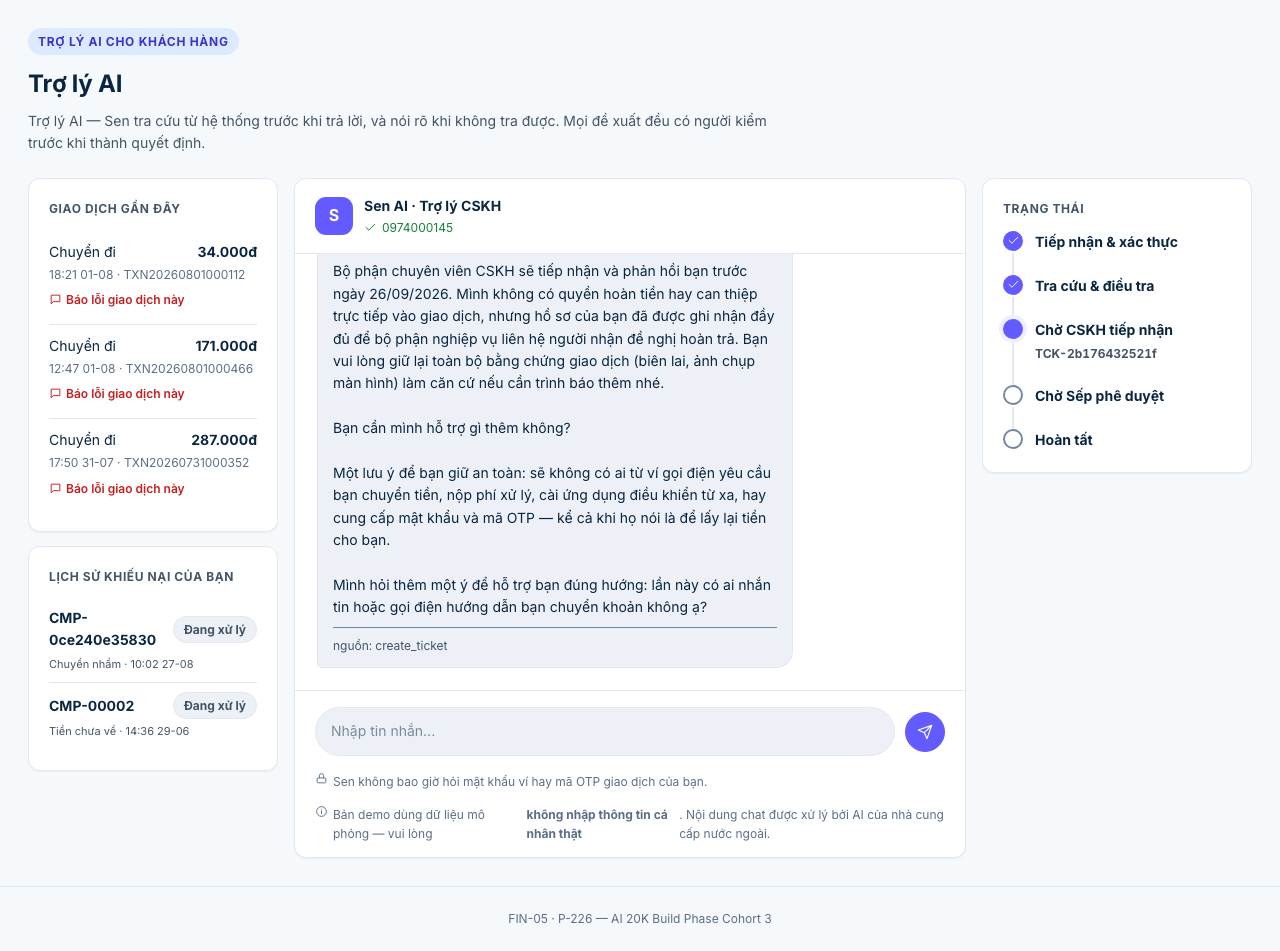
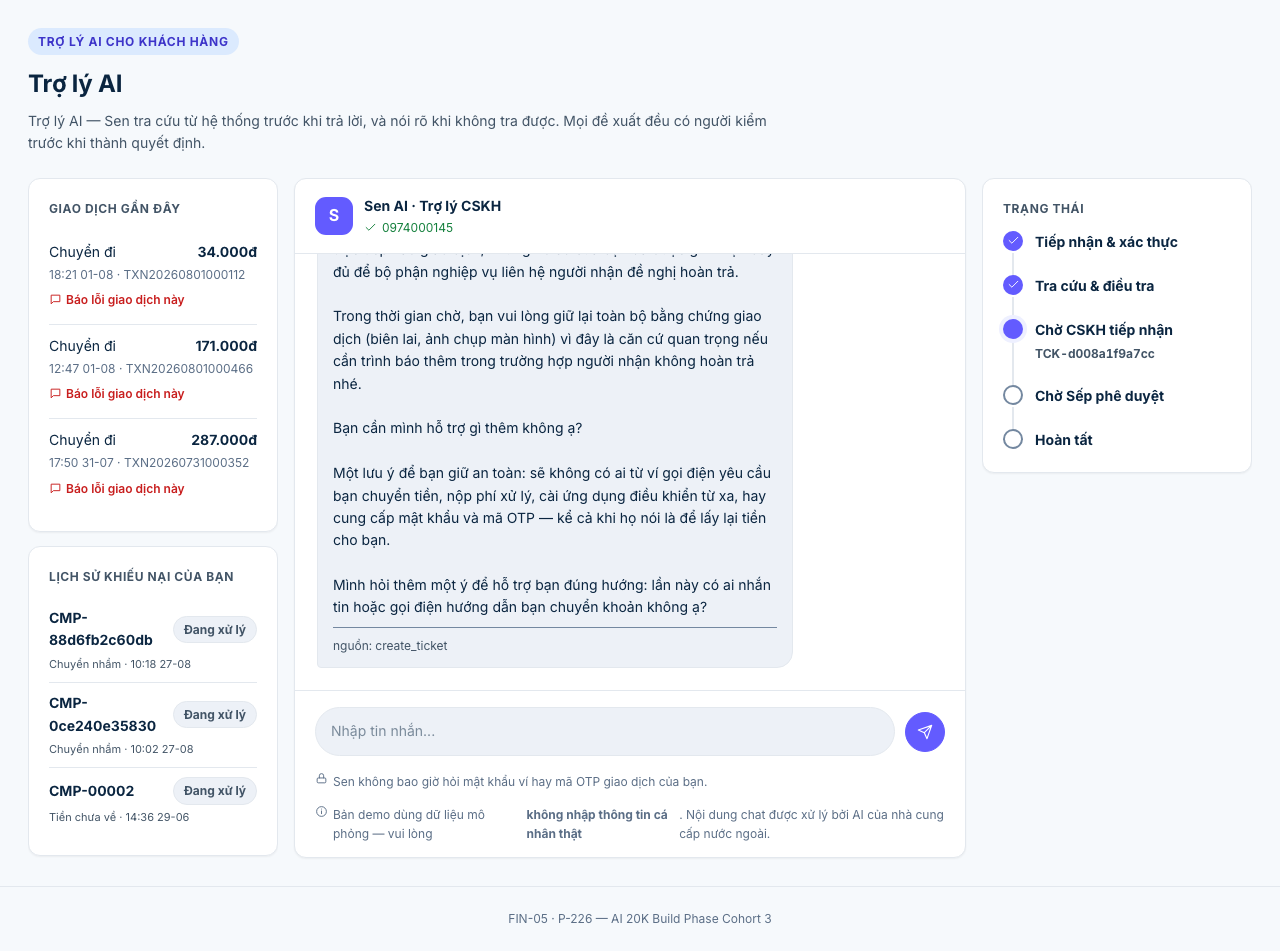
fix(landing): thay ảnh khối 04 — ẩn dòng SLA 30 ngày, lộ đoạn cảnh báo lừa đảo
Marketing (p-226-17) xem ảnh đầu (ticket TCK-2b176432521f) bằng mắt, bắt
được: đoạn chat đang hiển thị lộ "Bộ phận CSKH sẽ phản hồi trước ngày
26/09/2026" (SLA 30 ngày cho scope=unknown — vấn đề nghiệp vụ đã biết, đang
chờ PO quyết, KHÔNG phải lỗi ảnh hay lỗi chụp). Câu đó nằm NGAY CẠNH câu
hero "điều tra trong vài phút" — tự đặt phản chứng cạnh luận điểm chính.

Không sửa bằng chứng — CHỌN CHỖ CHO XEM: khung chat vốn cuộn được, và đoạn
đáng xem hơn đã có sẵn trong CÙNG tin nhắn đó: agent TỰ ĐƯA cảnh báo chống
lừa đảo (không ai hỏi), nêu cả "cài ứng dụng điều khiển từ xa" — một vector
lừa đảo nằm ngoài danh sách ba điều Marketing từng viết. Câu hỏi cuối chính
là tín hiệu FS-13 đang chạy thật.

Chụp lại ticket MỚI (cùng luồng thật: OTP → báo lỗi giao dịch → agent tạo
ticket), cuộn .chat-thread xuống đáy để dòng SLA (đầu tin nhắn) ra khỏi
khung nhìn, đoạn cảnh báo (cuối tin nhắn) hiện rõ. Giữ nguyên mọi xử lý khác
(trọn rail + chat + cột trạng thái, chỉ cắt dải header). Đổi caption khớp
nội dung mới.

tsc --noEmit + vitest 42/42 sạch, xác nhận bằng screenshot thật trên ngăn
fin05-qa-stripe rebuild.

diff --git a/frontend/src/app/page.tsx b/frontend/src/app/page.tsx
@@ -134,24 +134,33 @@ export default async function Home() {
             T121" (mã dự án CŨ) và lộ huy hiệu DEVELOPMENT/tên người dùng —
             KHÔNG dùng được nguyên trạng. Chụp lại THẬT trên code hiện tại
             (đăng nhập khách thật 0974000145, đi hết luồng OTP -> báo lỗi
-            giao dịch -> agent thật tạo ticket TCK-2b176432521f) — không phải
-            mock. TRỌN phần nội dung (rail + khung chat + cột trạng thái),
-            CHỈ cắt dải header phía trên (env badge/tên người dùng) — không
-            crop cột trạng thái, đúng yêu cầu "ảnh chứng minh bảng trạng thái
-            đang ở trên màn hình khách hàng, không phải một mảnh cắt rời". */}
+            giao dịch -> agent thật tạo ticket) — không phải mock. TRỌN phần
+            nội dung (rail + khung chat + cột trạng thái), CHỈ cắt dải header
+            phía trên (env badge/tên người dùng) — không crop cột trạng
+            thái.
+            27/08 vòng 2 — Marketing xem ảnh đầu (ticket TCK-2b176432521f)
+            bằng mắt, bắt được: đoạn chat đang hiển thị lộ hạn phản hồi
+            "trước ngày 26/09/2026" (SLA 30 ngày cho scope=unknown, vấn đề
+            nghiệp vụ đã biết, đang chờ PO — KHÔNG phải lỗi ảnh) — đá thẳng
+            vào câu hero "điều tra trong vài phút". Chụp lại ticket MỚI
+            (cùng luồng thật), CUỘN khung chat (không sửa ảnh, khung chat vốn
+            cuộn được) để đoạn cảnh báo lừa đảo — agent TỰ ĐƯA RA, không ai
+            hỏi, nêu cả "cài ứng dụng điều khiển từ xa" — thay cho dòng SLA
+            ở đầu tin nhắn. */}
         <figure style={{ maxWidth: 1120, margin: "40px auto 0" }}>
           <img
             src="/landing/ticket-status-thuc-te.png"
             width={1280}
             height={951}
-            alt="Màn hình chat của khách hàng, cột phải hiện bảng trạng thái hồ sơ khiếu nại"
+            alt="Màn hình chat của khách hàng: agent tự đưa cảnh báo chống lừa đảo, cột phải hiện bảng trạng thái hồ sơ khiếu nại"
             style={{ width: "100%", height: "auto", borderRadius: "var(--radius)", border: "1px solid var(--border)", display: "block" }}
           />
           <figcaption
             style={{ textAlign: "center", marginTop: 12, fontSize: "var(--fs-14)", color: "var(--text-dim)" }}
           >
-            Bảng trạng thái trên màn hình khách hàng. Bước &ldquo;Chờ Sếp phê duyệt&rdquo; không ẩn đi
-            — khách thấy hồ sơ của mình đang nằm ở đâu.
+            Một ca thật. Bảng trạng thái bên phải cho thấy hồ sơ đang chờ CSKH tiếp nhận, và bước
+            &ldquo;Chờ Sếp phê duyệt&rdquo; vẫn còn ở phía trước. Cảnh báo lừa đảo bên trái do trợ lý
+            tự đưa ra — không ai hỏi.
           </figcaption>
         </figure>
       </section>
